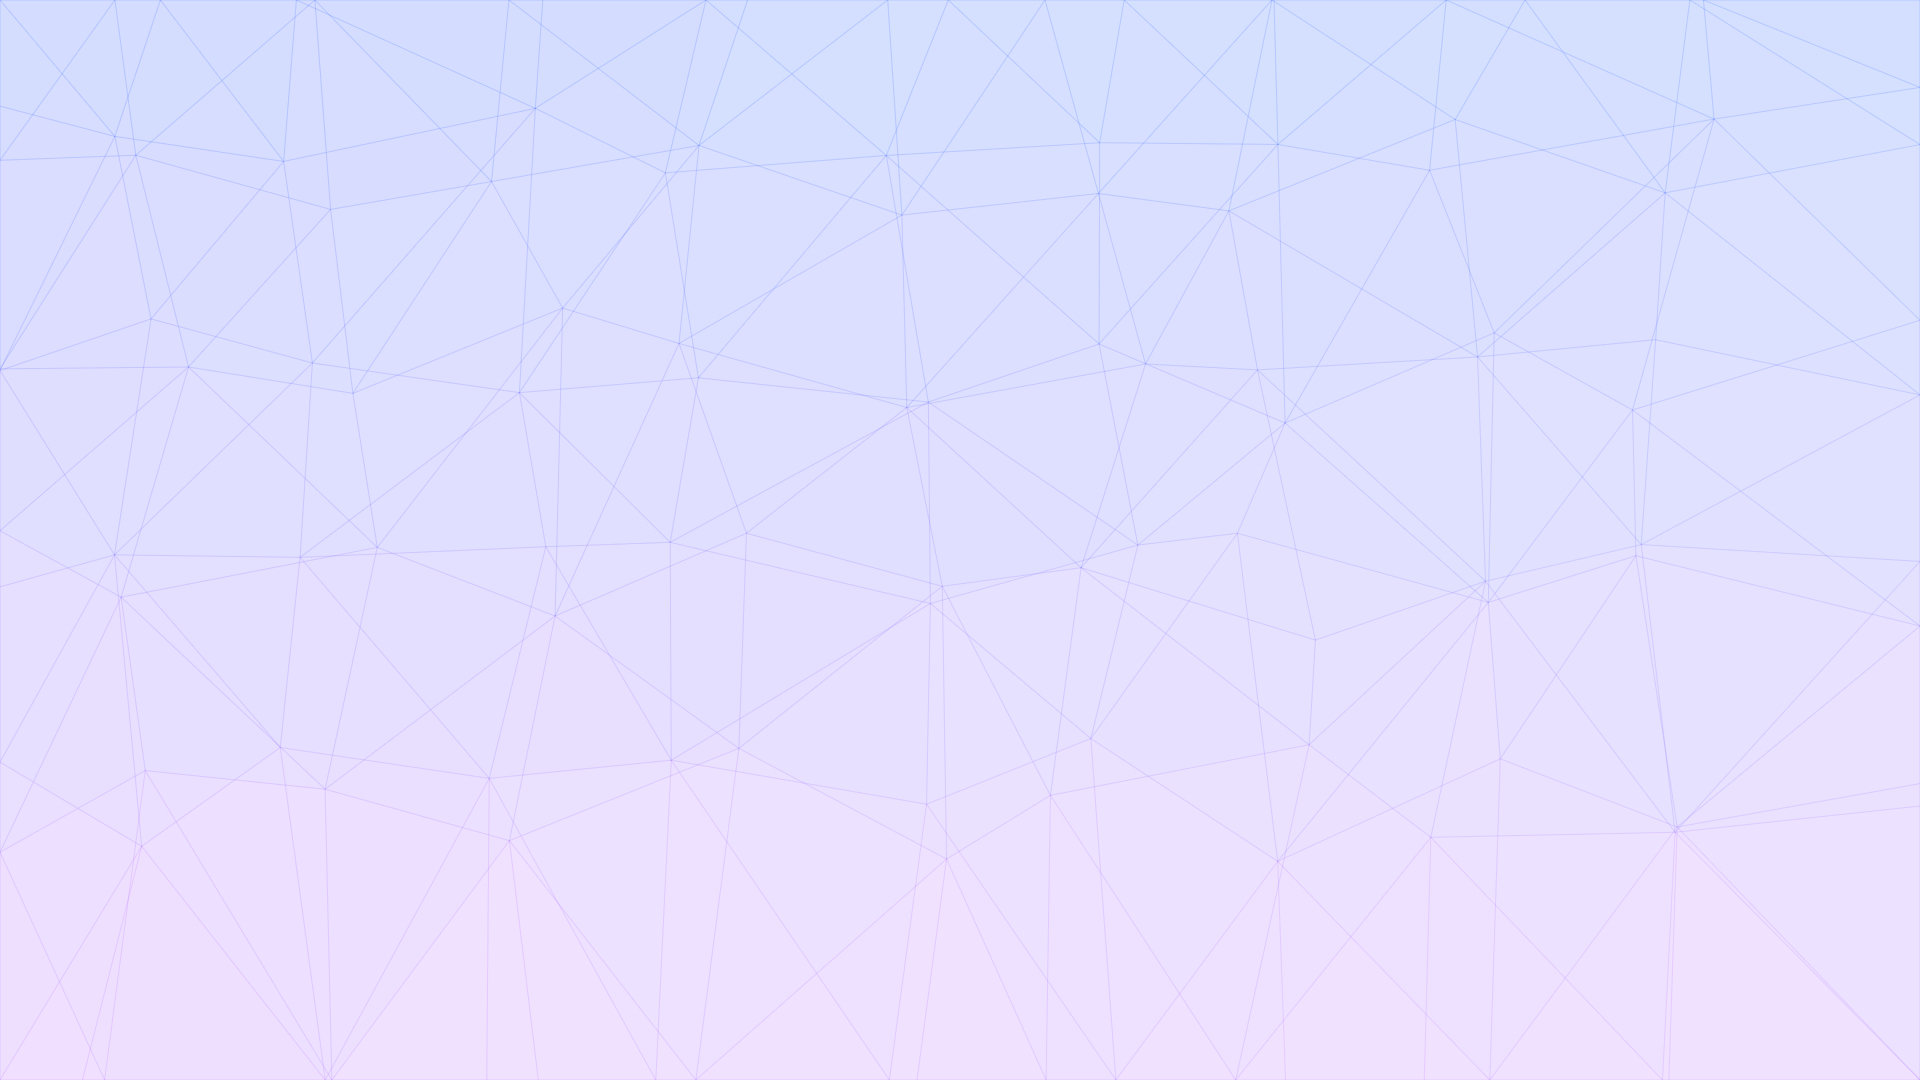
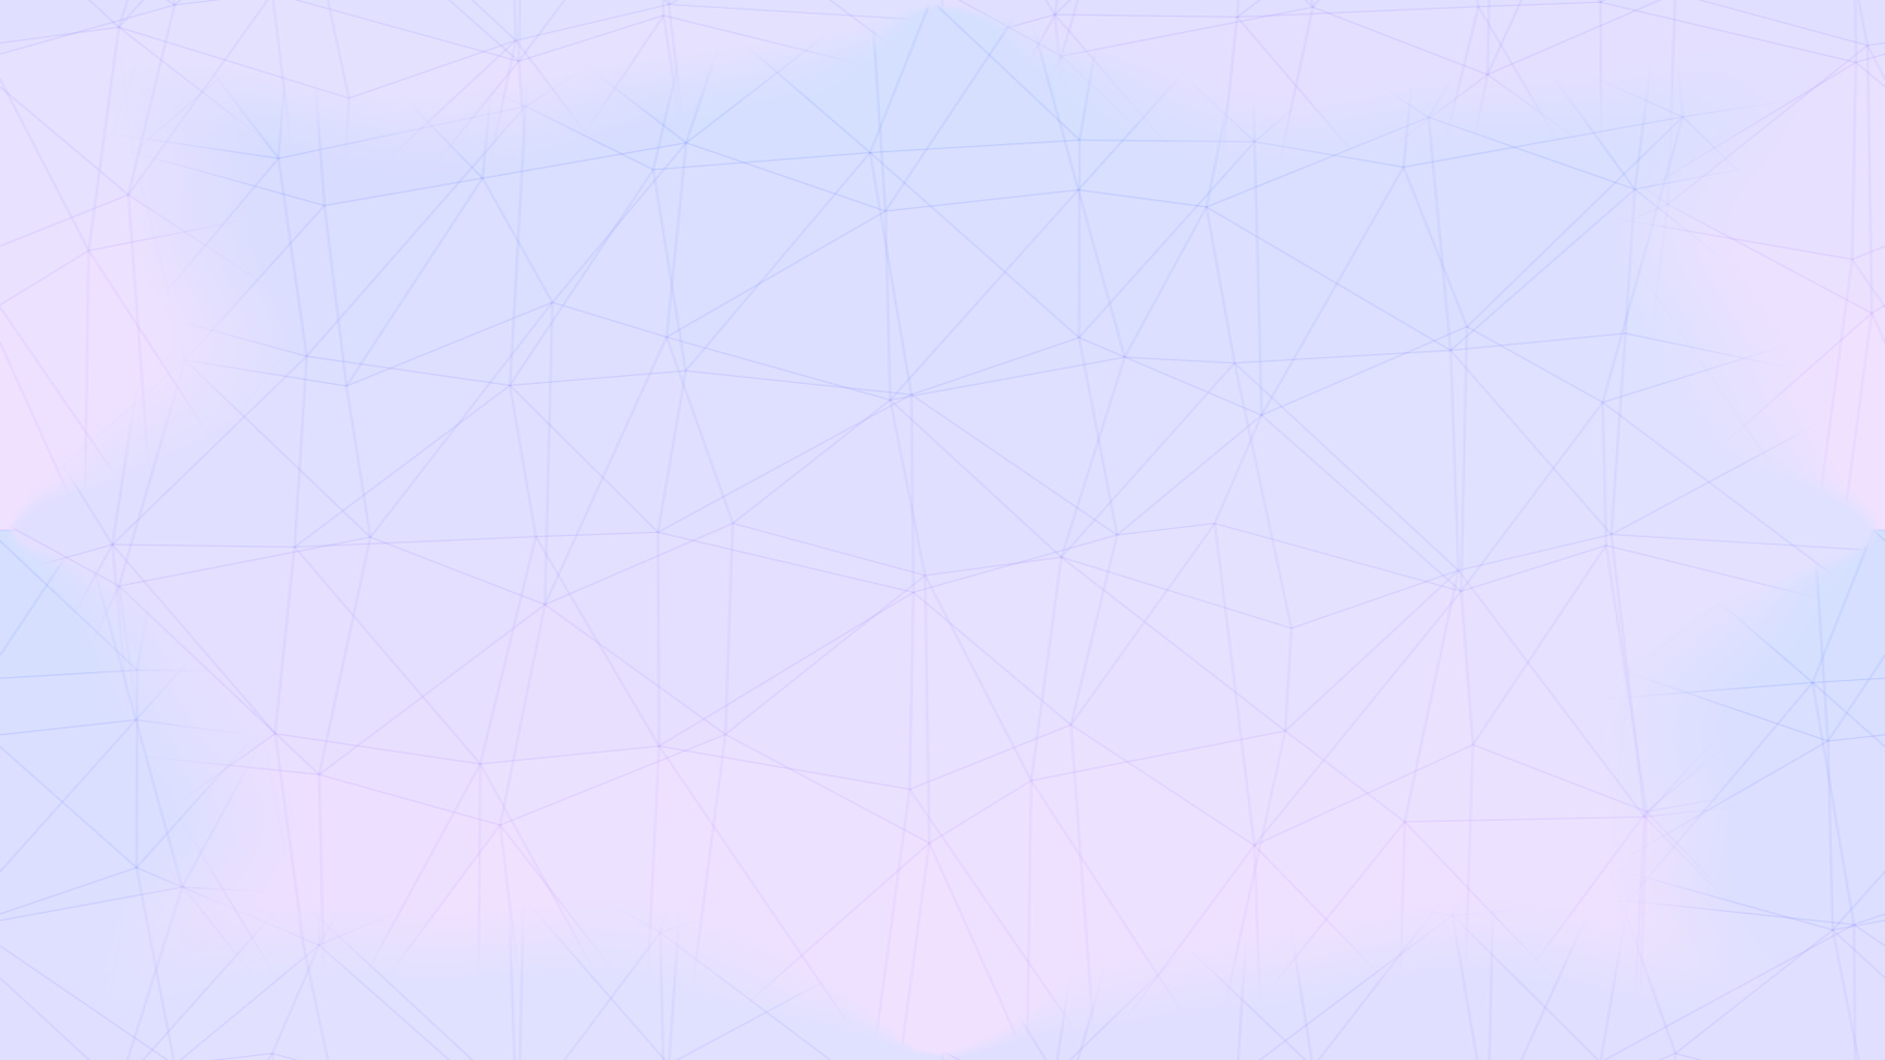
Background img fix
replaced background image with tileable version

diff --git a/profilepage/templates/editprofilepic.html b/profilepage/templates/editprofilepic.html
@@ -9,13 +9,14 @@
     <fieldset>
       <legend>Update Your Profile</legend>
       {% csrf_token %} 
+      <input id="image_url" name="profile_pic" class="simple-file-upload" type="hidden" data-resize-width="225" data-resize-height="225" data-maxFileSize="5" data-accepted="image/*">
       {{ p_form.as_p }}
      <button type="submit" class="btn btn-primary">Update</button>
     </fieldset>
   </form>
 </div>
 
-<input id="image_url" class="simple-file-upload" type="hidden" data-resize-width="225" data-resize-height="225" data-maxFileSize="5" data-accepted="image/*">
+
 <!-- <form action="/profilepage/" method="post">
     {% csrf_token %}
     {{ form }}
